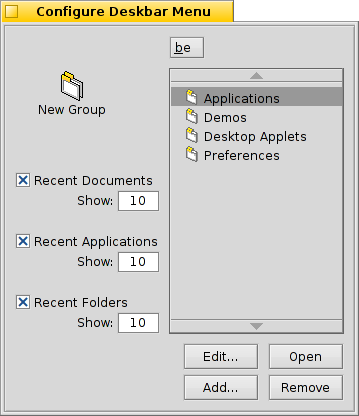
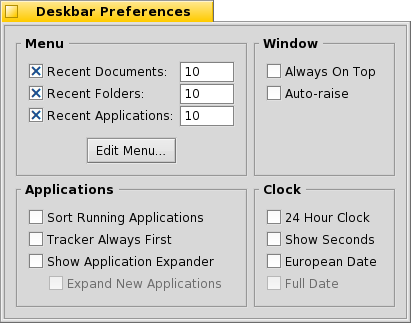
Worked in Jonas' new Deskbar Preference panel. Thanks HaikuBot for the reminder.
git-svn-id: file:///srv/svn/repos/haiku/haiku/trunk@33498 a95241bf-73f2-0310-859d-f6bbb57e9c96

diff --git a/userguide/en/deskbar.html b/userguide/en/deskbar.html
@@ -55,40 +55,48 @@
 <a href="#logo"><img src="../images/up.png" align="right" alt="index" border="0" class="noprint" /></a>
 <a id="deskbar-menu" name="deskbar-menu">The Deskbar Menu</a></h1>
 <p>A menu opens when you click on the Deskbar's top:</p>
-<img src="images/deskbar-images/settings.png" alt="settings.png" />
+<img src="images/deskbar-images/deskbar.png" alt="deskbar.png" />
 <ul>
 <li><p><b>About This System...</b> - Shows some basic information of the system, licenses and the credits of the Haiku project.</p></li>
 
 <li><p><b>Find...</b> - Opens the <a href="queries.html">Query</a> dialog.</p></li>
 <li><p><b>Show Replicants</b> - Shows/hides the little <a href="gui.html#replicants">Replicant</a> widget you use to drag it around, remove or access its context menu.</p></li>
 <li><p><b>Mount</b> - Offers the same options as when invoked by right-clicking the Desktop (see <a href="tracker.html#mounting-volumes">Mounting Volumes</a>).</p></li>
-<li><p><b>Deskbar Settings</b></p>
-<table summary="layout" border="0" cellpadding="2" cellspacing="0">
-<tr><td><span class="menu">Configure Deskbar Menu...</span></td><td>&#160;</td><td>Opens a panel to configure the Deskbar menu (see below).</td></tr>
-<tr><td><span class="menu">Always on Top</span></td><td>&#160;</td><td>The Deskbar always stays above all other windows.</td></tr>
-<tr><td><span class="menu">Auto Raise</span></td><td>&#160;</td><td>The Deskbar pops to the front if the mouse pointer touches it.</td></tr>
-<tr><td><span class="menu">Sort Running Applications</span></td><td>&#160;</td><td>Sorts the list of running programs alphabetically.</td></tr>
-<tr><td><span class="menu">Tracker always First</span></td><td>&#160;</td><td>Even if you sort alphabetically, the Tracker entry always stays first in the list.</td></tr>
-<tr><td><span class="menu">24 Hour Clock</span></td><td>&#160;</td><td>Toggles between 24 and 12 hour clock.</td></tr>
-<tr><td><span class="menu">Show Seconds</span></td><td>&#160;</td><td>Adds the display of seconds to the clock.</td></tr>
-<tr><td><span class="menu">European Date</span></td><td>&#160;</td><td>Shows the date in European format: day-month-year</td></tr>
-<tr><td><span class="menu">---- Full Date ----</span></td></tr>
-<tr><td class="onelinetop"><span class="menu">Show Application Expander</span></td><td>&#160;</td><td>Provides a small widget to show/hide all windows of a program directly under its entry in the Deskbar.</td></tr>
-<tr><td><span class="menu">Expand New Applications</span></td><td>&#160;</td><td>Newly launched programs have their windows automatically expanded under their entry in the Deskbar.</td></tr>
-    </table></li>
-<li><p><b>Shutdown</b> - Offers options to either <span class="menu">Restart System</span> or <span class="menu">Power Off</span>.</p></li>
-<li><p><b>Recent Documents, Folders, Applications</b> - List of the last recently opened documents, folders and applications (see <span class="menu">Configure Deskbar Menu...</span> below).</p></li>
-<li><p><b>Applications, Demos, Deskbar Applets, Preferences</b> - List of installed applications, demos, applets and preferences (see <span class="menu">Configure Deskbar Menu...</span> below).</p></li>
+<li><p><b>Deskbar Preferences...</b> - Opens a panel with some configuration options (see <span class="menu">Deskbar Preferences</span> below).</p></li>
+<li><p><b>Shutdown...</b> - Offers options to either <span class="menu">Restart System</span> or <span class="menu">Power Off</span>.</p></li>
+<li><p><b>Recent Documents, Folders, Applications</b> - List of the last recently opened documents, folders and applications (see <span class="menu">Deskbar Preferences</span> below).</p></li>
+<li><p><b>Applications, Demos, Deskbar Applets, Preferences</b> - List of installed applications, demos, applets and preferences (see <span class="menu">Deskbar Preferences</span> below).</p></li>
 </ul>
 
 <h2>
 <a href="#logo"><img src="../images/up.png" align="right" alt="index" border="0" class="noprint" /></a>
-Configure Deskbar Menu...</h2>
+<a id="deskbar-prefs" name="deskbar-prefs">Deskbar Preferences</a></h2>
 <img src="images/deskbar-images/configure.png" alt="configure.png" />
-<p>In this panel you set the number of recent documents, folders and applications that are shown in the Deskbar, or if you show them at all.</p>
-<p>Here, you also configure folders and their contents, which are by default Applications, Demos, Deskbar Applets, and Preferences. You can add your own entries and edit or remove items.<br />
-This part of the panel is just a representation of the folder <span class="path">/boot/home/config/be/</span>. You can just as well link or copy files and folders or even queries directly in Tracker to configure your Deskbar.</p>
-<p>It's even easier to simply drag a file, folder or saved query and drop it where you want it into the Deskbar.</p>
+<ul>
+<li><p><b>Menu</b><br />
+Here you can set the number of recent documents, folders and applications that are shown in their menu in the Deskbar, or if you show them at all.<br />
+The button <span class="button">Edit Menu...</span> opens the folder <span class="path">/boot/home/config/be/</span>. In it you'll find the files and folders that appear in the Deskbar, by default these are <span class="menu">Applications</span>, <span class="menu">Demos</span>, <span class="menu">Deskbar Applets</span>, and <span class="menu">Preferences</span>.<br />
+You can delete or add entries like links to applications, documents or even queries by simply copying/deleting them to/from this folder.</p>
+<p>It's even easier to simply drag a file, folder or saved query and drop it where you want it into the Deskbar.</p></li>
+<li><p><b>Window</b></p>
+<table summary="layout" border="0" cellpadding="2" cellspacing="0">
+<tr><td><span class="menu">Always on Top</span></td><td>&#160;</td><td>The Deskbar always stays above all other windows.</td></tr>
+<tr><td><span class="menu">Auto Raise</span></td><td>&#160;</td><td>The Deskbar pops to the front if the mouse pointer touches it.</td></tr>
+</table></li>
+<li><p><b>Applications</b></p>
+<table summary="layout" border="0" cellpadding="2" cellspacing="0">
+<tr><td><span class="menu">Sort Running Applications</span></td><td>&#160;</td><td>Sorts the list of running programs alphabetically.</td></tr>
+<tr><td><span class="menu">Tracker always First</span></td><td>&#160;</td><td>Even if you sort alphabetically, the Tracker entry always stays first in the list.</td></tr>
+<tr><td class="onelinetop"><span class="menu">Show Application Expander</span></td><td>&#160;</td><td>Provides a small widget to show/hide all windows of a program directly under its entry in the Deskbar.</td></tr>
+<tr><td><span class="menu">Expand New Applications</span></td><td>&#160;</td><td>Newly launched programs have their windows automatically expanded under their entry in the Deskbar.</td></tr>
+</table></li>
+<li><p><b>Clock</b></p>
+<table summary="layout" border="0" cellpadding="2" cellspacing="0">
+<tr><td><span class="menu">24 Hour Clock</span></td><td>&#160;</td><td>Toggles between 24 and 12 hour clock.</td></tr>
+<tr><td><span class="menu">Show Seconds</span></td><td>&#160;</td><td>Adds the display of seconds to the clock.</td></tr>
+<tr><td><span class="menu">European Date</span></td><td>&#160;</td><td>Shows the date in European format: day-month-year</td></tr>
+<tr><td><span class="menu">---- Full Date ----</span></td></tr>
+</table></li>
 
 <h1>
 <a href="#logo"><img src="../images/up.png" align="right" alt="index" border="0" class="noprint" /></a>

diff --git a/userguide/en/preferences.html b/userguide/en/preferences.html
@@ -46,6 +46,8 @@
 		<td valign="top">Set a color or image as background of the Desktop or any other folder.</td></tr>
 	<tr><td style="width:24px;"><img src="../images/prefs-images/datatranslations-icon_16.png" alt="icon" width="16" height="16" /></td><td><a href="preferences/datatranslations.html">DataTranslations</a></td><td>&#160;</td>
 		<td valign="top">Settings for all supported file formats.</td></tr>
+	<tr><td style="width:24px;"><img src="../images/prefs-images/deskbar-icon_16.png" alt="icon" width="16" height="16" /></td><td><a href="preferences/deskbar.html">Deskbar</a></td><td>&#160;</td>
+		<td valign="top">Configure the Deskbar.</td></tr>
 	<tr><td style="width:24px;"><img src="../images/prefs-images/e-mail-icon_16.png" alt="icon" width="16" height="16" /></td><td><a href="preferences/e-mail.html">E-mail</a></td><td>&#160;</td>
 		<td valign="top">Configure your email accounts.</td></tr>
 	<tr><td style="width:24px;"><img src="../images/prefs-images/filetypes-icon_16.png" alt="icon" width="16" height="16" /></td><td><a href="preferences/filetypes.html">FileTypes</a></td><td>&#160;</td>

diff --git a/userguide/en/preferences/e-mail.html b/userguide/en/preferences/e-mail.html
@@ -26,7 +26,7 @@
 
 <div class="topnav">
 	<p>
-		«&#160;&#160;<a href="datatranslations.html">DataTranslations</a>
+		«&#160;&#160;<a href="deskbar.html">Deskbar</a>
 		&#160;&#160;::&#160;&#160;
 		<a href="../preferences.html" class="uplink">Preferences</a>
 		&#160;&#160;::&#160;&#160;
@@ -167,7 +167,7 @@ If you're on a dial-up connection, you may want to do that <span class="menu">On
 
 <div class="bottomnav">
 	<p>
-		«&#160;&#160;<a href="datatranslations.html">DataTranslations</a>
+		«&#160;&#160;<a href="deskbar.html">Deskbar</a>
 		&#160;&#160;::&#160;&#160;
 		<a href="../preferences.html" class="uplink">Preferences</a>
 		&#160;&#160;::&#160;&#160;

diff --git a/userguide/en/preferences/datatranslations.html b/userguide/en/preferences/datatranslations.html
@@ -30,7 +30,7 @@
 		&#160;&#160;::&#160;&#160;
 		<a href="../preferences.html" class="uplink">Preferences</a>
 		&#160;&#160;::&#160;&#160;
-		<a href="e-mail.html">E-mail</a>&#160;&#160;»
+		<a href="deskbar.html">Deskbar</a>&#160;&#160;»
 	</p>
 </div>
 
@@ -81,8 +81,7 @@ Besides the output quality you can also set a smoothing that will lessen compres
 		&#160;&#160;::&#160;&#160;
 		<a href="../preferences.html" class="uplink">Preferences</a>
 		&#160;&#160;::&#160;&#160;
-		<a href="e-mail.html">E-mail</a>&#160;&#160;»
-	</p>
+		<a href="deskbar.html">Deskbar</a>&#160;&#160;»	</p>
 </div>
 
 </body>
